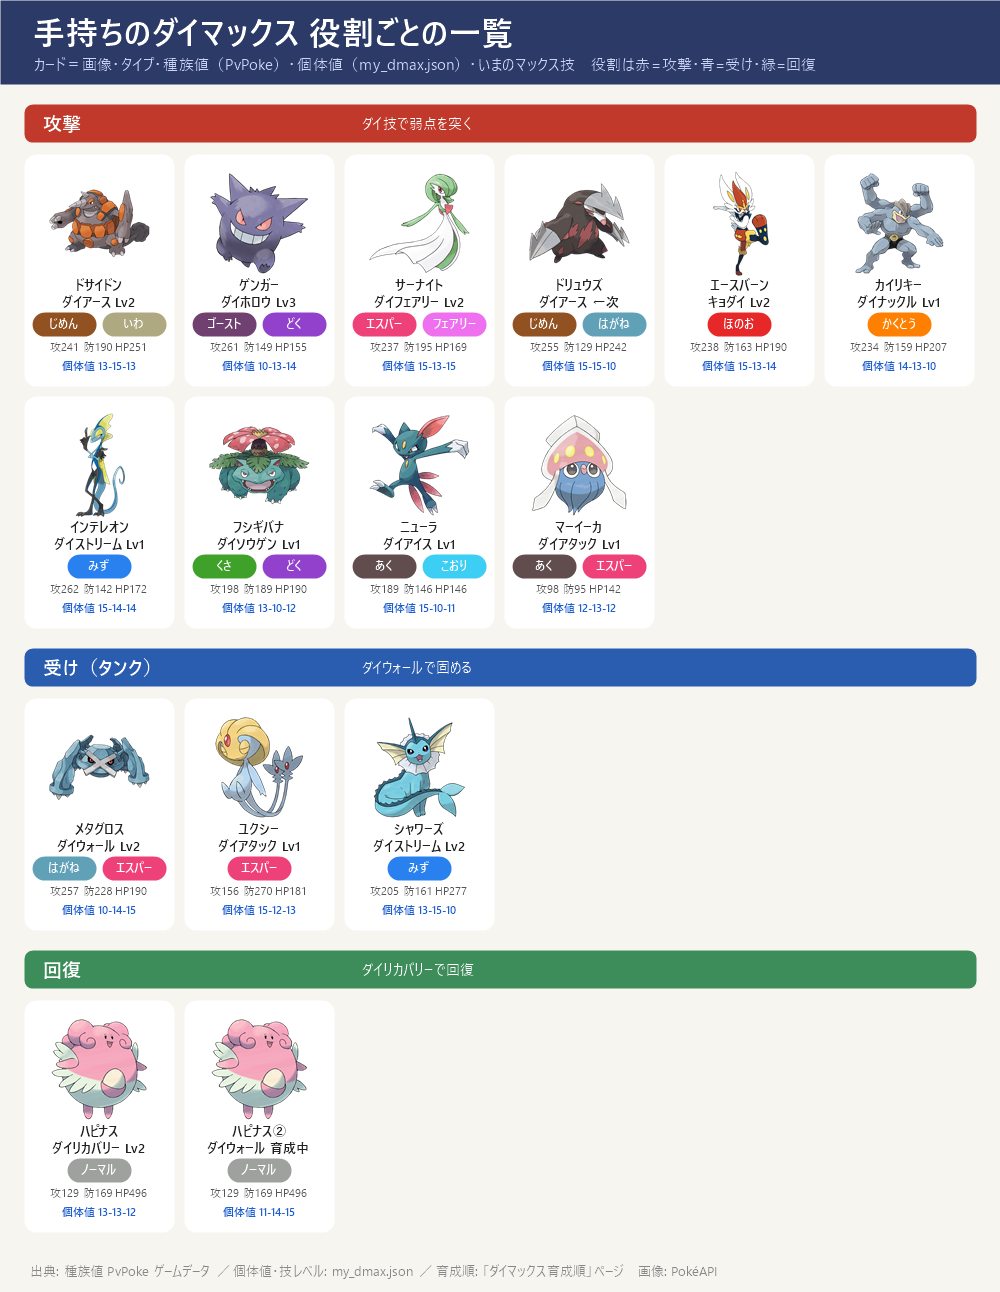
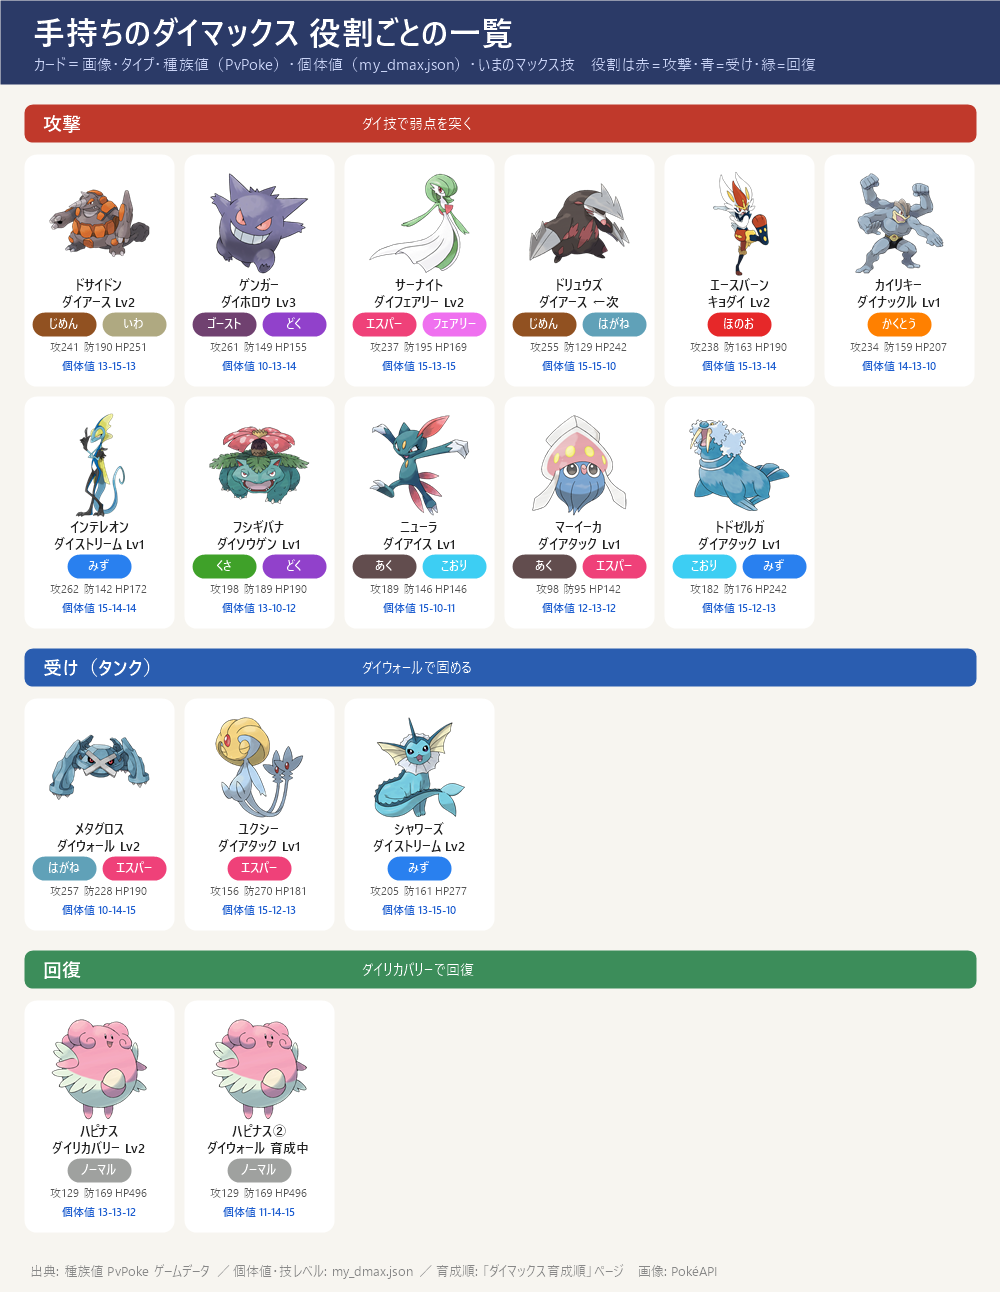
手持ちダイマックスにトドゼルガを追加
my-dmax ページにトドゼルガ(walrein こおり/みず・15-12-13・CP1539・たきのぼり/みずのはどう・ダイアタックLv1・アメ741/XL10)を追加。

Changed region(s): [[0.651, 0.3096, 0.806, 0.4954]]

diff --git a/topics/my-dmax/index.html b/topics/my-dmax/index.html
@@ -12,4 +12,4 @@ details{margin:10px 0}summary{cursor:pointer;color:var(--muted)}
 .ti{width:26px;height:26px;margin:0 7px 0 0;font-size:20px;line-height:26px}
 .hi{width:30px;height:30px;margin:0 9px 0 0;font-size:24px;line-height:30px}
 ul.tl{padding-left:0}ul.tl li{list-style:none;margin:7px 0}ul.tl a{display:flex;align-items:center}
-</style></head><body><header><h1><span class='hi'>🧰</span>手持ちのダイマックス（育成メモ）</h1><nav><a href='../../'>← 一覧</a></nav></header><main><ul><li>手持ちのダイマックスポケモンの一覧。<b>種族値</b>（攻撃・防御・HP）は PvPoke のゲームデータ、<b>個体値</b>は記録（my_dmax.json）から「15-12-13」の形で表示。記録がないものは<b>「個体値 未登録」</b></li><li>役割：<span style='color:#C0392B;font-weight:bold'>攻撃</span>（赤）・<span style='color:#2A5DB0;font-weight:bold'>受け（タンク）</span>（青）・<span style='color:#3C8D5A;font-weight:bold'>回復</span>（緑）。カードは名前の下にいまのマックス技とレベル、その下に種族値・個体値</li><li>育成プランは下の節と「<b>ダイマックス育成順</b>」ページで同じ（次に上げる技とレベル・必要MP・優先順位）</li><li><span style='color:#888888'>個体値を記録済み：メタグロス・ユクシー・ハピナス・ドサイドン・ドリュウズ・インテレオン・ゲンガー・サーナイト・フシギバナ・シャワーズ・カイリキー・エースバーン・ハピナス(2体目)・マーイーカ・ニューラ。ほかは未登録</span></li><li><span style='color:#888888'>※ザシアン・ザマゼンタはダイマックスではないので、この一覧には入れていない（育成順ページに別記）</span></li></ul><h2 style='border-color:#2B3A67'>役割ごとの一覧</h2><a href='pokego_extra0.png'><img src='pokego_extra0.png' alt='役割ごとの一覧' loading=lazy></a><ul></ul><h2 style='border-color:#C0392B'>育成プラン（育成順ページと同じ）</h2><ul><li><b>ドサイドン</b>（個体値 13-15-13）：<b>3位・攻撃（CP3005）</b>：<span style='font-weight:bold;color:#C0392B'>ダイアース Lv2 済み（10/24）</span>（どろかけ替え済み）。ディアルガ・レジスチル・★6キョダイジュラルドンで<b>弱点</b>。1発272（Lv3は318・アメXL要で後回し）</li><li><b>ゲンガー</b>（個体値 10-13-14）：<b>4位・攻撃（CP2500）</b>：<span style='font-weight:bold;color:#C0392B'>ダイホロウ（ダイアタック）Lv3 済み（10/23）</span>。10/24 ユクシー・エムリット・アグノム、11/13 ラティアス・ラティオスで弱点</li><li><b>サーナイト</b>（個体値 15-13-15）：<b>5位・攻撃（CP2023・15-13-15）</b>：<span style='font-weight:bold;color:#C0392B'>ダイフェアリー Lv2 済み（10/24）</span>。あまえる替え済み。パルキア・レジドラゴ・ラティアス／ラティオス・10/26 ヤミラミの攻撃役。<b>次の強化はドリュウズのダイアース Lv2 へ</b></li><li><b>ドリュウズ</b>（個体値 15-15-10）：<b>6位・攻撃/受け（CP1835・15-15-10・PL20）</b>：<span style='font-weight:bold;color:#C0392B'>次の強化はここから</span>。ダイアース Lv1 済み → <b>Lv2（600MP）</b>。順番：<b>Lv2 → PL30 → 和田堀の巣でアメXLを集めて Lv3</b>（アメ187）。ディアルガの技（ドラゴン・はがね・でんき）を全部半減以下で受けられる2体目のじめん役 → <span style='font-weight:bold;color:#C0392B'>11/9〜13 に</span></li><li><b>エースバーン</b>（個体値 15-13-14）：<span style='color:#888888'><b>後回し・攻撃（CP2566・15-13-14・キョダイマックス）</b>：キョダイカキュウ Lv2 済み（<b>ダイウォール・ダイリカバリーは未開放</b>）。Lv3 はアメXL 45個。レジスチル（ほのお弱点で1発278）・ヤミラミ・★6キョダイジュラルドンで活躍</span></li><li><b>カイリキー</b>（個体値 14-13-10）：<span style='color:#888888'><b>後回し・攻撃（CP1698・14-13-10）</b>：<b>ダイナックル Lv1・ダイウォール未開放・ダイリカバリー未開放</b>（2026-10-26 登録）。かくとうでレジスチル・ディアルガに弱点を突けるが CP が低い。じめん・かくとう役はドサイドンが先 → 育成は後回し</span></li><li><b>インテレオン</b>（個体値 15-14-14）：<span style='color:#888888'><b>後回し・攻撃（CP2315・15-14-14）</b>：<b>ダイストリーム Lv1・ダイウォール未開放・ダイリカバリー未開放</b>（2026-10-26 登録）。みず攻撃役だが今のボス（はがね・ドラゴン・エスパー系）には弱点を突けず、どの攻略サイトでも下位 → 育成は後回し（パルキア戦ではみず技をいまひとつで受けられる控え）</span></li><li><b>フシギバナ</b>（個体値 13-10-12）：<span style='color:#888888'><b>後回し・攻撃（CP2000・13-10-12）</b>：ダイソウゲン Lv1・ダイリカバリー Lv1。ダイマックス版はどの攻略サイトでも下位</span></li><li><b>ニューラ</b>（個体値 15-10-11）：<span style='color:#888888'><b>後回し・攻撃候補（CP1139・15-10-11）</b>：10/19 捕獲・ダイアイス Lv1（ほかは未解放）。マニューラへの進化はアメ100（今76・あと24）、シンオウのいしあり。<b>技より進化を先に</b> → 進化後 CP約1,680 でダイアイスがレジドラゴ・ラティアス/ラティオスに2倍</span></li><li><b>マーイーカ</b>（個体値 12-13-12）：<span style='color:#888888'><b>後回し・攻撃候補（CP379・12-13-12）</b>：<b>ダイアタック Lv1・ダイウォール未開放・ダイリカバリー未開放</b>（2026-10-28 登録）。あく/エスパー。捕獲直後で弱く、今のボス（はがね・ドラゴン・エスパー系）には弱点を突けない → 戦力に数えず育成は後回し。アメ234個、カラマネロへの進化はアメ50</span></li><li><b>メタグロス</b>（個体値 10-14-15）：<b>2位・受け（CP3369）</b>：<span style='font-weight:bold;color:#C0392B'>ダイウォール Lv2 済み（10/24・盾40）</span>。<b>6ボスすべて</b>で受け役。Lv3（盾60）はアメXL が要るので当面このまま</li><li><b>ユクシー</b>（個体値 15-12-13）：<span style='color:#888888'><b>後回し・受け候補（15-12-13・技Lv1）</b>：10/24 捕獲。防御がとても高い(270)エスパー単。ダイアタック Lv1 のみで<b>ダイウォール未習得</b> → 覚えれば受け（タンク）の2体目候補。今のドラゴン・はがね系ボスには等倍なので受け役の比較にはまだ入れていない</span></li><li><b>シャワーズ</b>（個体値 13-15-10）：<b>受け（パルキア戦・CP1704・13-15-10）</b>：<b>ダイストリーム Lv2・ダイリカバリー Lv1・ダイウォール未開放</b>。だいもんじ・ハイドロポンプ・アクアテールを<b>いまひとつ</b>で受けられHPも多い → パルキア戦の受け役（<span style='font-weight:bold;color:#C0392B'>手元で確認済み・使える状態</span>）</li><li><b>ハピナス</b>（個体値 13-13-12）：<b>1位・回復（CP2677・13-13-12）</b>：<span style='font-weight:bold;color:#C0392B'>ダイリカバリー Lv2 済み（10/21）</span>。<b>6ボスすべて</b>で回復役（回復量 31→<b>47</b>・4体全員に）。<b>ダイウォール Lv1 も覚えており</b>、HP がとても多いので受け（盾）の候補にもなる（ボス別ページの受け役ランキングでも上位）。次はダイウォール Lv2</li><li><b>ハピナス(2体目)</b>（個体値 11-14-15）：<span style='color:#888888'><b>後回し・回復（2体目・11-14-15・PL20）</b>：PL40・ダイウォール Lv3 を目指して育成中。余裕ができたら2体目の回復役・受けに</span></li></ul><p class=src>出典: 種族値: PvPoke ゲームデータ ／ 個体値・技レベル・CP: my_dmax.json ／ 育成の優先順位・MP: 「ダイマックス育成順」ページ（GO Hub・Dittobase・ドクターポケゴーゴー）<br>画像: PokéAPI ／ 更新 2026-10-28</p></main></body></html>
+</style></head><body><header><h1><span class='hi'>🧰</span>手持ちのダイマックス（育成メモ）</h1><nav><a href='../../'>← 一覧</a></nav></header><main><ul><li>手持ちのダイマックスポケモンの一覧。<b>種族値</b>（攻撃・防御・HP）は PvPoke のゲームデータ、<b>個体値</b>は記録（my_dmax.json）から「15-12-13」の形で表示。記録がないものは<b>「個体値 未登録」</b></li><li>役割：<span style='color:#C0392B;font-weight:bold'>攻撃</span>（赤）・<span style='color:#2A5DB0;font-weight:bold'>受け（タンク）</span>（青）・<span style='color:#3C8D5A;font-weight:bold'>回復</span>（緑）。カードは名前の下にいまのマックス技とレベル、その下に種族値・個体値</li><li>育成プランは下の節と「<b>ダイマックス育成順</b>」ページで同じ（次に上げる技とレベル・必要MP・優先順位）</li><li><span style='color:#888888'>個体値を記録済み：メタグロス・ユクシー・ハピナス・ドサイドン・ドリュウズ・インテレオン・ゲンガー・サーナイト・フシギバナ・シャワーズ・カイリキー・エースバーン・ハピナス(2体目)・マーイーカ・トドゼルガ・ニューラ。ほかは未登録</span></li><li><span style='color:#888888'>※ザシアン・ザマゼンタはダイマックスではないので、この一覧には入れていない（育成順ページに別記）</span></li></ul><h2 style='border-color:#2B3A67'>役割ごとの一覧</h2><a href='pokego_extra0.png'><img src='pokego_extra0.png' alt='役割ごとの一覧' loading=lazy></a><ul></ul><h2 style='border-color:#C0392B'>育成プラン（育成順ページと同じ）</h2><ul><li><b>ドサイドン</b>（個体値 13-15-13）：<b>3位・攻撃（CP3005）</b>：<span style='font-weight:bold;color:#C0392B'>ダイアース Lv2 済み（10/24）</span>（どろかけ替え済み）。ディアルガ・レジスチル・★6キョダイジュラルドンで<b>弱点</b>。1発272（Lv3は318・アメXL要で後回し）</li><li><b>ゲンガー</b>（個体値 10-13-14）：<b>4位・攻撃（CP2500）</b>：<span style='font-weight:bold;color:#C0392B'>ダイホロウ（ダイアタック）Lv3 済み（10/23）</span>。10/24 ユクシー・エムリット・アグノム、11/13 ラティアス・ラティオスで弱点</li><li><b>サーナイト</b>（個体値 15-13-15）：<b>5位・攻撃（CP2023・15-13-15）</b>：<span style='font-weight:bold;color:#C0392B'>ダイフェアリー Lv2 済み（10/24）</span>。あまえる替え済み。パルキア・レジドラゴ・ラティアス／ラティオス・10/26 ヤミラミの攻撃役。<b>次の強化はドリュウズのダイアース Lv2 へ</b></li><li><b>ドリュウズ</b>（個体値 15-15-10）：<b>6位・攻撃/受け（CP1835・15-15-10・PL20）</b>：<span style='font-weight:bold;color:#C0392B'>次の強化はここから</span>。ダイアース Lv1 済み → <b>Lv2（600MP）</b>。順番：<b>Lv2 → PL30 → 和田堀の巣でアメXLを集めて Lv3</b>（アメ187）。ディアルガの技（ドラゴン・はがね・でんき）を全部半減以下で受けられる2体目のじめん役 → <span style='font-weight:bold;color:#C0392B'>11/9〜13 に</span></li><li><b>エースバーン</b>（個体値 15-13-14）：<span style='color:#888888'><b>後回し・攻撃（CP2566・15-13-14・キョダイマックス）</b>：キョダイカキュウ Lv2 済み（<b>ダイウォール・ダイリカバリーは未開放</b>）。Lv3 はアメXL 45個。レジスチル（ほのお弱点で1発278）・ヤミラミ・★6キョダイジュラルドンで活躍</span></li><li><b>カイリキー</b>（個体値 14-13-10）：<span style='color:#888888'><b>後回し・攻撃（CP1698・14-13-10）</b>：<b>ダイナックル Lv1・ダイウォール未開放・ダイリカバリー未開放</b>（2026-10-26 登録）。かくとうでレジスチル・ディアルガに弱点を突けるが CP が低い。じめん・かくとう役はドサイドンが先 → 育成は後回し</span></li><li><b>インテレオン</b>（個体値 15-14-14）：<span style='color:#888888'><b>後回し・攻撃（CP2315・15-14-14）</b>：<b>ダイストリーム Lv1・ダイウォール未開放・ダイリカバリー未開放</b>（2026-10-26 登録）。みず攻撃役だが今のボス（はがね・ドラゴン・エスパー系）には弱点を突けず、どの攻略サイトでも下位 → 育成は後回し（パルキア戦ではみず技をいまひとつで受けられる控え）</span></li><li><b>フシギバナ</b>（個体値 13-10-12）：<span style='color:#888888'><b>後回し・攻撃（CP2000・13-10-12）</b>：ダイソウゲン Lv1・ダイリカバリー Lv1。ダイマックス版はどの攻略サイトでも下位</span></li><li><b>ニューラ</b>（個体値 15-10-11）：<span style='color:#888888'><b>後回し・攻撃候補（CP1139・15-10-11）</b>：10/19 捕獲・ダイアイス Lv1（ほかは未解放）。マニューラへの進化はアメ100（今76・あと24）、シンオウのいしあり。<b>技より進化を先に</b> → 進化後 CP約1,680 でダイアイスがレジドラゴ・ラティアス/ラティオスに2倍</span></li><li><b>マーイーカ</b>（個体値 12-13-12）：<span style='color:#888888'><b>後回し・攻撃候補（CP379・12-13-12）</b>：<b>ダイアタック Lv1・ダイウォール未開放・ダイリカバリー未開放</b>（2026-10-28 登録）。あく/エスパー。捕獲直後で弱く、今のボス（はがね・ドラゴン・エスパー系）には弱点を突けない → 戦力に数えず育成は後回し。アメ234個、カラマネロへの進化はアメ50</span></li><li><b>トドゼルガ</b>（個体値 15-12-13）：<span style='color:#888888'><b>後回し・攻撃候補（CP1539・15-12-13）</b>：<b>ダイアタック Lv1・ダイウォール未開放・ダイリカバリー未開放</b>（2026-11-01 登録）。こおり/みず（たきのぼり／みずのはどう）。タマザラシのアメ741・アメXL10。※ゲーム内の表示名は「タマザラシ」だが進化系のトドゼルガとして登録。捕獲直後で CP が低く今のボス（はがね・ドラゴン・エスパー系）には弱点を突けない → 戦力に数えず育成は後回し</span></li><li><b>メタグロス</b>（個体値 10-14-15）：<b>2位・受け（CP3369）</b>：<span style='font-weight:bold;color:#C0392B'>ダイウォール Lv2 済み（10/24・盾40）</span>。<b>6ボスすべて</b>で受け役。Lv3（盾60）はアメXL が要るので当面このまま</li><li><b>ユクシー</b>（個体値 15-12-13）：<span style='color:#888888'><b>後回し・受け候補（15-12-13・技Lv1）</b>：10/24 捕獲。防御がとても高い(270)エスパー単。ダイアタック Lv1 のみで<b>ダイウォール未習得</b> → 覚えれば受け（タンク）の2体目候補。今のドラゴン・はがね系ボスには等倍なので受け役の比較にはまだ入れていない</span></li><li><b>シャワーズ</b>（個体値 13-15-10）：<b>受け（パルキア戦・CP1704・13-15-10）</b>：<b>ダイストリーム Lv2・ダイリカバリー Lv1・ダイウォール未開放</b>。だいもんじ・ハイドロポンプ・アクアテールを<b>いまひとつ</b>で受けられHPも多い → パルキア戦の受け役（<span style='font-weight:bold;color:#C0392B'>手元で確認済み・使える状態</span>）</li><li><b>ハピナス</b>（個体値 13-13-12）：<b>1位・回復（CP2677・13-13-12）</b>：<span style='font-weight:bold;color:#C0392B'>ダイリカバリー Lv2 済み（10/21）</span>。<b>6ボスすべて</b>で回復役（回復量 31→<b>47</b>・4体全員に）。<b>ダイウォール Lv1 も覚えており</b>、HP がとても多いので受け（盾）の候補にもなる（ボス別ページの受け役ランキングでも上位）。次はダイウォール Lv2</li><li><b>ハピナス(2体目)</b>（個体値 11-14-15）：<span style='color:#888888'><b>後回し・回復（2体目・11-14-15・PL20）</b>：PL40・ダイウォール Lv3 を目指して育成中。余裕ができたら2体目の回復役・受けに</span></li></ul><p class=src>出典: 種族値: PvPoke ゲームデータ ／ 個体値・技レベル・CP: my_dmax.json ／ 育成の優先順位・MP: 「ダイマックス育成順」ページ（GO Hub・Dittobase・ドクターポケゴーゴー）<br>画像: PokéAPI ／ 更新 2026-11-01</p></main></body></html>
